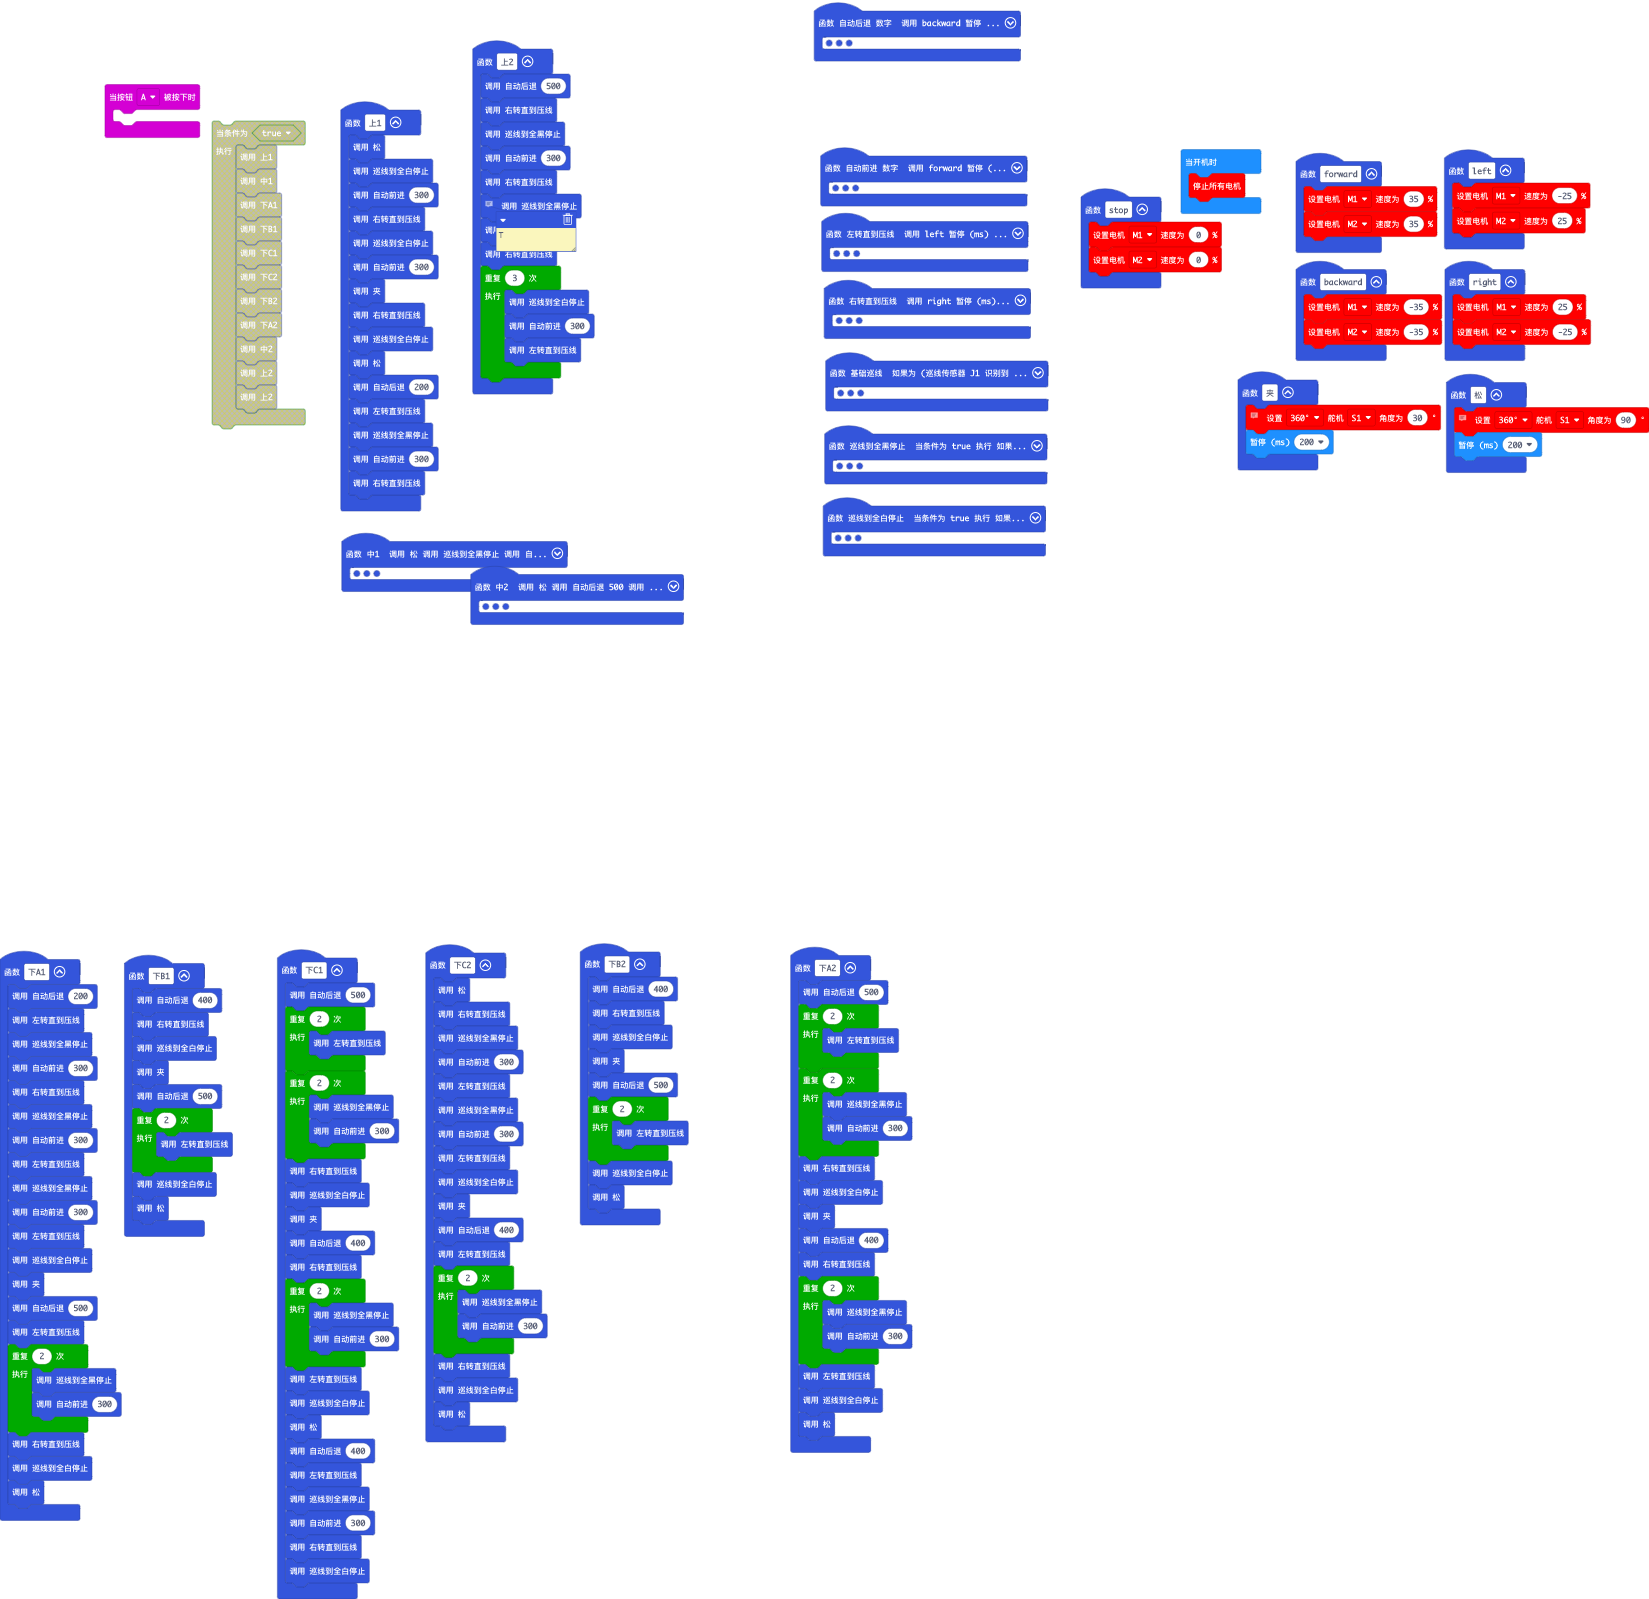
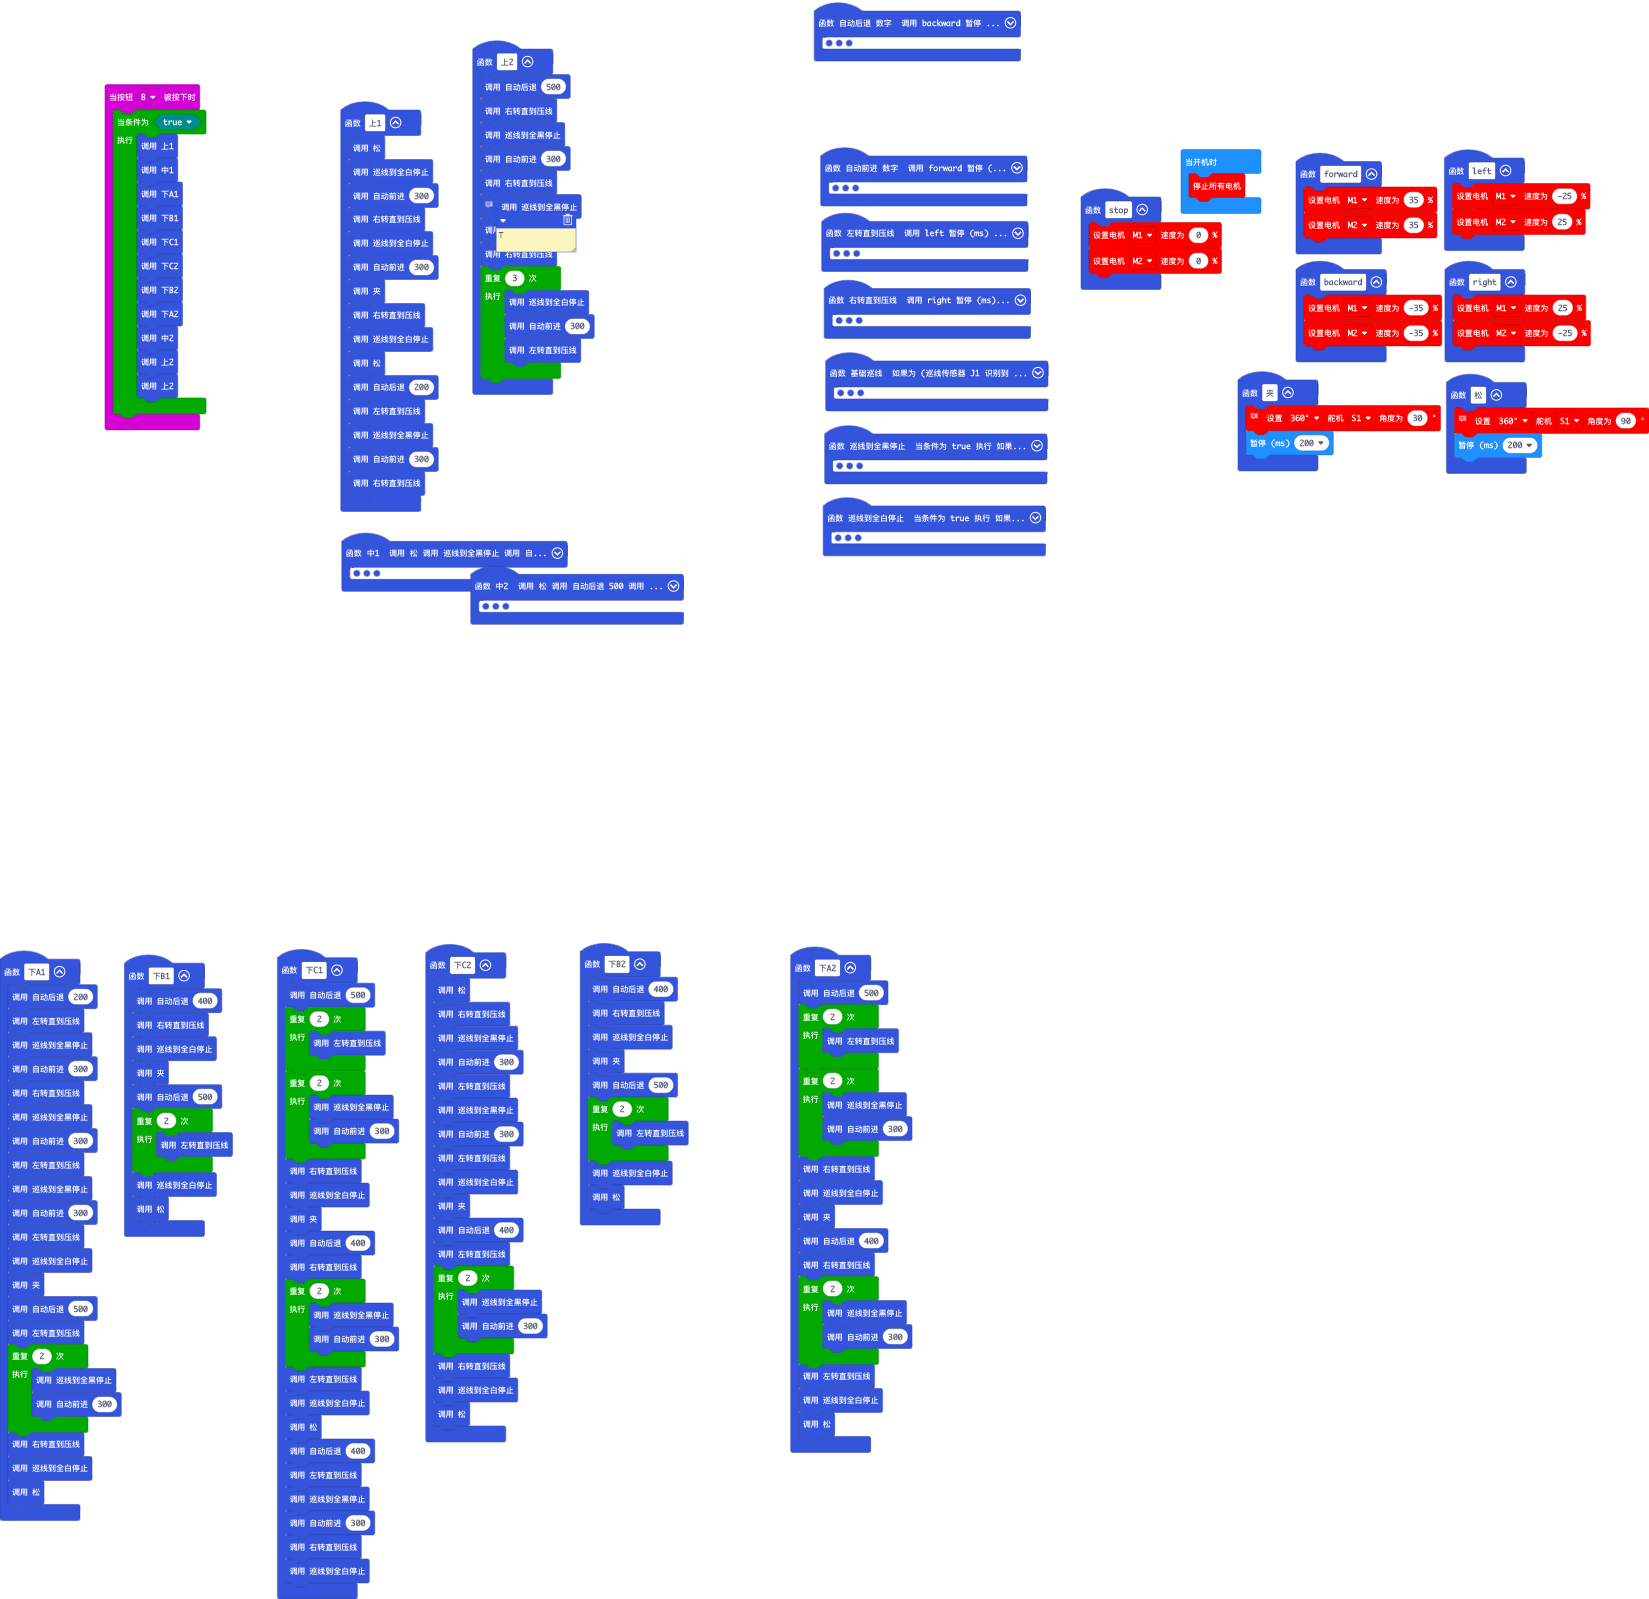
更新 main.blocks, main.ts

diff --git a/main.ts b/main.ts
@@ -97,9 +97,6 @@ function stop () {
     neZha.setMotorSpeed(neZha.MotorList.M1, 0)
     neZha.setMotorSpeed(neZha.MotorList.M2, 0)
 }
-input.onButtonPressed(Button.A, function () {
-	
-})
 function 下A1 () {
     自动后退(200)
     左转直到压线()
@@ -191,6 +188,21 @@ function 上2 () {
         左转直到压线()
     }
 }
+input.onButtonPressed(Button.B, function () {
+    while (true) {
+        上1()
+        中1()
+        下A1()
+        下B1()
+        下C1()
+        下C2()
+        下B2()
+        下A2()
+        中2()
+        上2()
+        上2()
+    }
+})
 function 巡线到全白停止 () {
     while (true) {
         if (PlanetX_Basic.trackingSensor(PlanetX_Basic.DigitalRJPin.J1, PlanetX_Basic.TrackingStateType.Tracking_State_3) && PlanetX_Basic.trackingSensor(PlanetX_Basic.DigitalRJPin.J2, PlanetX_Basic.TrackingStateType.Tracking_State_3)) {
